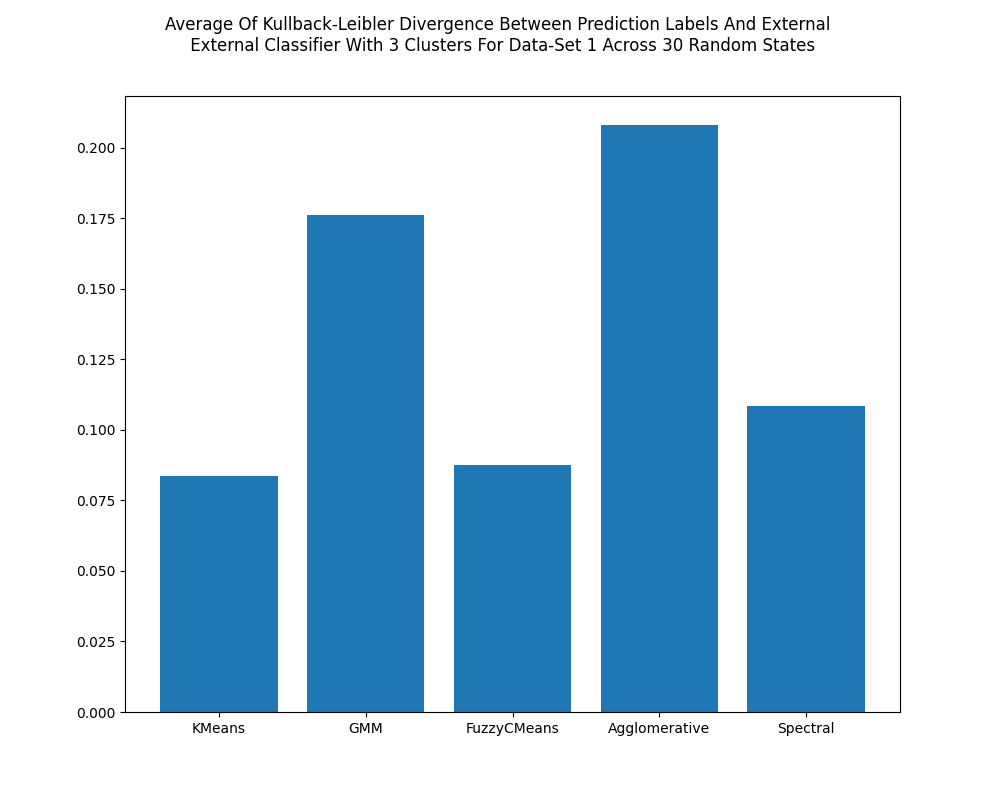
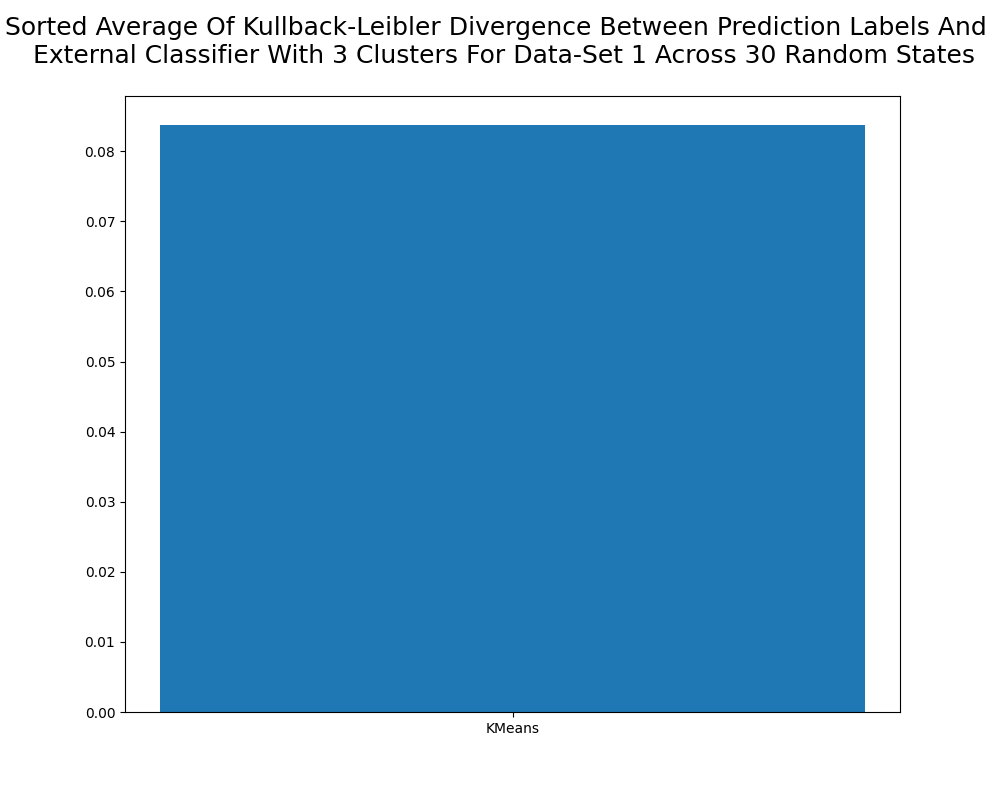
optimal n clusters (for now).

diff --git a/FinalAssignment/Code/OptimalNClusters.py b/FinalAssignment/Code/OptimalNClusters.py
@@ -22,7 +22,6 @@ def get_csv_file_name(min_n_clusters, max_n_clusters, random_state_list_length):
 
 def get_optimal_n_clusters_file_path(file_name, dataset_index):
     
-
     results_folder_path = get_results_folder_path()
     optimal_n_clusters_folder_path = get_folder_path(folder_name = GlobalParameters.OPTIMAL_N_CLUSTERS_FOLDER_NAME, enclosing_path = results_folder_path)
     dataset_folder_name = get_dataset_folder_name(dataset_index)
@@ -31,15 +30,28 @@ def get_optimal_n_clusters_file_path(file_name, dataset_index):
     plot_file_path = get_file_path(file_name, dataset_folder_path)
     return plot_file_path
 
+def sample_and_popluation_mean_test(samples):
+        pop_mean = np.mean(samples)
+        
+        # H0 - sample mean = population mean.
+        p_value, stat = stats.ttest_1samp(samples, pop_mean)
+
+        # print("p value:", p_value, "stat:", stat)
+        return p_value, stat, pop_mean
+
 class OptimalNClusters:
-    def __init__(self, clusteringAlgorithmList: list = ClusteringAlgorithmsImportFile.clustering_algorithm_obj_list):
+    def __init__(self, dataset, min_n_clusters, max_n_clusters, clusteringAlgorithmList: list = ClusteringAlgorithmsImportFile.clustering_algorithm_obj_list):
         """
         init method.
 
         Args:
             clusteringAlgorithmList (list, optional): list of ClusteringAlgorithm objects for us to get the optimal NClusters of. Defaults to ClusteringAlgorithms.clusteringAlgorithmList.
         """
-        self.clusteringAlgorithmList = clusteringAlgorithmList
+        self.dataset = dataset
+        self.min_n_clusters = min_n_clusters
+        self.max_n_clusters = max_n_clusters
+        self.random_state_list = GlobalParameters.random_state_list[:2]
+        self.clusteringAlgorithmList = clusteringAlgorithmList[0:2]
 
     def runRandomStates(self, dataset, min_n_clusters: int, maxNClusters: int, randomStateList: list):
         """
@@ -123,37 +135,94 @@ class OptimalNClusters:
         plt.close()
         return algoNameMaxScoreDict
 
+    def run_all(self):
+        # result_df = pd.DataFrame()
+        # algo_name_sil_score_dict = {}
+        n_clusters_range = range(self.min_n_clusters, self.max_n_clusters + 1)
 
-    def run_stat_test(self, clusterAlgo, dataset, n_classes, random_state_list):
-        dataset_df = dataset.get_data_frame()
+        dataset_index = self.dataset.get_index()
+        num_random_states = len(self.random_state_list)
+
+        for cluster_algo_obj in self.clusteringAlgorithmList:
+            temp_df = self.run_n_clusters_on_cluster_algo(cluster_algo_obj)
+
+            mean_sil_score_list = list(temp_df.loc['Mean'])
+            plt.plot(n_clusters_range, mean_sil_score_list, 'o-', label=cluster_algo_obj.getName())
+
+        ############################## plotting.
+        plt.legend()
+        plt.title(f"Silhouette Score Average Across {num_random_states} Random States For Data-Set {dataset_index}")
+        plt.xlabel("Number Of Clusters")
+        plt.ylabel("Average Silhouette Score")
+
+        # ---------- Save Plot ----------
+        file_name = f"{self.min_n_clusters}-{self.max_n_clusters}ClusterRange{num_random_states}RandomStatesPlot"
+        file_path = get_optimal_n_clusters_file_path(file_name=file_name, dataset_index=dataset_index)
+        
+        plt.savefig(file_path)
+        plt.close()
+        
+
+    def run_n_clusters_on_cluster_algo(self, cluster_algo_obj):
+        random_state_sil_score_df = pd.DataFrame()
+
+        for n_classes in range(self.min_n_clusters, self.max_n_clusters + 1):
+            temp_df = self.get_silhouetter_score_df(cluster_algo_obj, n_classes)
+
+            if random_state_sil_score_df.empty:
+                random_state_sil_score_df = temp_df
+            else:
+                random_state_sil_score_df = pd.concat([random_state_sil_score_df, temp_df], axis = 1)
+        
+        df_to_save = random_state_sil_score_df.copy()
+        maxList = df_to_save.idxmax(axis=1)
+        df_to_save['max_value_n_clusters'] = maxList
+
+        ##################################### save results
+        file_name = f"{self.min_n_clusters}-{self.max_n_clusters}ClusterRange{len(self.random_state_list)}RandomStates{cluster_algo_obj.getName()}.csv"
+        csv_file_path = get_optimal_n_clusters_file_path(file_name, self.dataset.get_index())
+        df_to_save.to_csv(csv_file_path)
+
+        return random_state_sil_score_df
+
+    def get_silhouetter_score_df(self, clusterAlgo, n_classes):
+        dataset_df = self.dataset.get_data_frame()
         clusterAlgo.setNClusters(n_classes)
         clusterAlgo.setDataFrame(dataset_df)
 
         silhouette_score_list = []
-        for random_state in random_state_list:
-            print(clusterAlgo.getName(), "with", n_classes, "and random state", random_state)
+
+
+        for random_state in self.random_state_list:
+            print(clusterAlgo.getName(), "with", n_classes, "clusters and random state", random_state)
             clusterAlgo.setRandomState(random_state)
             clusterAlgo.createLabels()
             temp_sil_score = clusterAlgo.getSilhouetteScore()
             silhouette_score_list.append(temp_sil_score)
 
-        pop_mean = np.mean(silhouette_score_list)
-        
-        # H0 - sample mean = population mean.
-        p_value, stat = stats.ttest_1samp(silhouette_score_list, pop_mean)
+        result_df = pd.DataFrame(silhouette_score_list, index=self.random_state_list).T
 
-        print("p value:", p_value, "stat:", stat)
+        p_value, stat, mean = sample_and_popluation_mean_test(silhouette_score_list)
+        result_df['Mean'] = mean
+        result_df['P-Value'] = p_value            
+        result_df['T-Statistics'] = stat
+
+        result_df = result_df.T
+        result_df.rename(columns = {0 : n_classes}, inplace = True)
+        
+        return result_df        
     
 if __name__ == "__main__":
-    # 10 most comman random seeds.
-    # randomStateList = [0, 1, 42, 1234, 10, 123, 2, 5, 12, 12345]
-
-    onc = OptimalNClusters()
 
     ################### try 3 more clusters.
-    num_n_clusters_tries = 3
+    num_n_clusters_tries = 1
     for ds in DatasetsImportFile.dataset_obj_list[1:2]:
         ds.prepareDataset()
         num_classes = ds.get_n_classes()
-        onc.run_stat_test(clustering_algorithm_obj_list[0], ds, num_classes+1, random_state_list)
+        
+        onc = OptimalNClusters(ds, num_classes, num_classes + num_n_clusters_tries)
+        
+        # onc.run_stat_test(clustering_algorithm_obj_list[0], num_classes+1)
+        # onc.run_n_clusters_on_cluster_algo(clustering_algorithm_obj_list[0])
+        onc.run_all()
         # onc.runRandomStates(ds, num_classes, (num_classes + num_n_clusters_tries), random_state_list[0:3])

diff --git a/FinalAssignment/Code/FitExternalClass.py b/FinalAssignment/Code/FitExternalClass.py
@@ -25,7 +25,7 @@ class FitExternalClass:
             randomStateList (list, optional): list of random states. Defaults to GlobalParameters.randomStateList.
             clusteringAlgorithmList (list, optional): list of Clustering Algorithm Objects. Defaults to ClusteringAlgorithms.clusteringAlgorithmList.
         """
-        self.clusteringAlgorithmList = clusteringAlgorithmList
+        self.clusteringAlgorithmList = clusteringAlgorithmList[0:1]
         self.randomStateList = randomStateList
 
     def get_csv_file_name(self):
@@ -47,7 +47,7 @@ class FitExternalClass:
 
     def createCSV(self, dataset):
         """
-        For each of the external classifier labels and each of the clustering algorithms we save the fitment score in a dictionary using the checkAgainstExternalClass() mehtod of the ClusteringAlgorithm object.
+        For each of the external classifier labels and each of the clustering algorithms we save the fitment score in a dictionary using the checkAgainstExternalClassRandomStateList() mehtod of the ClusteringAlgorithm object.
         This dictionary later transforms into a dataframe that can easily be saved in a CSV file, using pandas to_csv() mehtod.
         We also save a plot of the results.
 
@@ -62,7 +62,7 @@ class FitExternalClass:
         for clusteringAlgorithm in self.clusteringAlgorithmList:
             clusteringAlgorithm.setDataFrame(dataset.get_data_frame())
             print(clusteringAlgorithm.getName())
-            result[clusteringAlgorithm.getName()] = clusteringAlgorithm.checkAgainstExternalClass(self.randomStateList, dataset.get_ground_truth())
+            result[clusteringAlgorithm.getName()] = clusteringAlgorithm.checkAgainstExternalClassRandomStateList(self.randomStateList, dataset.get_ground_truth())
 
         # ---------- Results into a DataFrame and add min and max columns ----------
         resultDF = pd.DataFrame(result)
@@ -78,11 +78,17 @@ class FitExternalClass:
         # ---------- Save bar plot ----------
         algoNameAverageFitDict = {name: fitmentDict['Average'] for name, fitmentDict in result.items()}
         fig, ax = plt.subplots(figsize=(10, 8))
+        
+        ############################# sort bars.
+        algoNameAverageFitDict = dict(sorted(algoNameAverageFitDict.items(), key=lambda item: item[1]))
+
         ax.bar(list(algoNameAverageFitDict.keys()),
                 algoNameAverageFitDict.values())
+         
         fig.suptitle(
-            f"Average Of Kullback-Leibler Divergence Between Prediction Labels And External \n External Classifier With {self.nClusters} Clusters For Data-Set {dataset_index} Across {len(self.randomStateList)} Random States")
-        
+            # f"Sorted Average Of Kullback-Leibler Divergence Between \n Prediction Labels And External Classifier With {self.nClusters} Clusters For \n Data-Set {dataset_index} Across {len(self.randomStateList)} Random States", fontsize = 17)            f"Sorted Average Of Kullback-Leibler Divergence Between \n Prediction Labels And External Classifier With {self.nClusters} Clusters For \n Data-Set {dataset_index} Across {len(self.randomStateList)} Random States", fontsize = 17)
+            f"Sorted Average Of Kullback-Leibler Divergence Between Prediction Labels And \n External Classifier With {self.nClusters} Clusters For Data-Set {dataset_index} Across {len(self.randomStateList)} Random States", fontsize = 18)
+
         bar_chart_file_path = self.get_bar_chart_fie_path(dataset_index)
         fig.savefig(bar_chart_file_path)
         plt.close()
@@ -92,4 +98,4 @@ class FitExternalClass:
 if __name__ == '__main__':
     fec = FitExternalClass()
     fec.createCSV(Dataset1())
-    # fec.createCSV(DataSet2())
+    # fec.createCSV(Dataset2())

diff --git a/FinalAssignment/Code/ClusteringAlgorithmInterface.py b/FinalAssignment/Code/ClusteringAlgorithmInterface.py
@@ -5,7 +5,7 @@ import numpy as np
 import pandas as pd
 from scipy.stats import entropy
 from sklearn.metrics import silhouette_score, silhouette_samples
-
+from GlobalFunctions import get_sample_and_popluation_mean_test
 
 def getProbabilities(lst: list) -> np.ndarray:
     """
@@ -146,7 +146,17 @@ class ClusteringAlgorithm:
         self.__init__(nClusters=self.nClusters,
                       randomState=randomState, dataFrame=self.dataFrame)
 
-    def checkAgainstExternalClass(self, randomStateList: list, externalLabels: list) -> dict:
+    def check_against_external_class(self, random_state, external_labels):
+        n_classes = len(set(external_labels))
+        self.setNClusters(n_classes)
+        
+        self.setRandomState(random_state)
+        self.createLabels
+        kl_divergence_value = self.getKLDivergence(external_labels)
+
+        return kl_divergence_value
+
+    def checkAgainstExternalClassRandomStateList(self, randomStateList: list, externalLabels: list) -> dict:
         """
         calculate fitment to external classifier using K-L divergence, with a list of different random states.
         Args:
@@ -159,14 +169,23 @@ class ClusteringAlgorithm:
         randomStateKLDivergenceDict = {}  # key - randoom state, value mutual info score.
         nClusters = len(set(externalLabels))
         self.setNClusters(nClusters)
+        kl_divergence_list = []
         for randomState in randomStateList:
             self.setRandomState(randomState)
             self.createLabels()
+            kl_divergence_value = self.getKLDivergence(externalLabels)
             randomStateKLDivergenceDict[str(
-                randomState)] = self.getKLDivergence(externalLabels)
+                randomState)] = kl_divergence_value
+            kl_divergence_list.append(kl_divergence_value)
 
         randomStateKLDivergenceDict['Average'] = np.mean(
             list(randomStateKLDivergenceDict.values()))
+
+        ####################################### run statistical test
+        p_value, stat = get_sample_and_popluation_mean_test(kl_divergence_list)
+
+        randomStateKLDivergenceDict['P-Value'] = p_value
+        randomStateKLDivergenceDict['T-Statistics'] = stat
         if len(set(randomStateKLDivergenceDict.values())) == 1 and not len(randomStateList) == 1:
             print(f"Random State Doesn't make a change for {self.name}")
         return randomStateKLDivergenceDict

diff --git a/FinalAssignment/Code/GlobalFunctions.py b/FinalAssignment/Code/GlobalFunctions.py
@@ -1,5 +1,8 @@
 import GlobalParameters
 import os
+import numpy as np
+from scipy import stats
+
 
 def get_file_path(file_name, folder_path):
     file_path = os.path.join(folder_path, file_name)
@@ -45,3 +48,12 @@ def get_plot_file_path(file_name, dataset_index, parent_folder_name):
 
     plot_file_path = get_file_path(file_name, dataset_folder_path)
     return plot_file_path
+
+def get_sample_and_popluation_mean_test(samples):
+        pop_mean = np.mean(samples)
+        
+        # H0 - sample mean = population mean.
+        p_value, stat = stats.ttest_1samp(samples, pop_mean)
+
+        # print("p value:", p_value, "stat:", stat)
+        return p_value, stat
